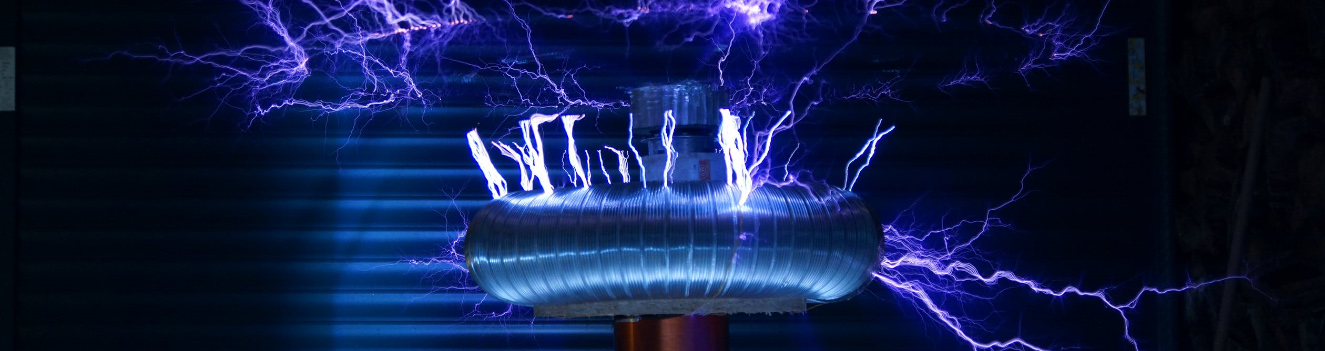
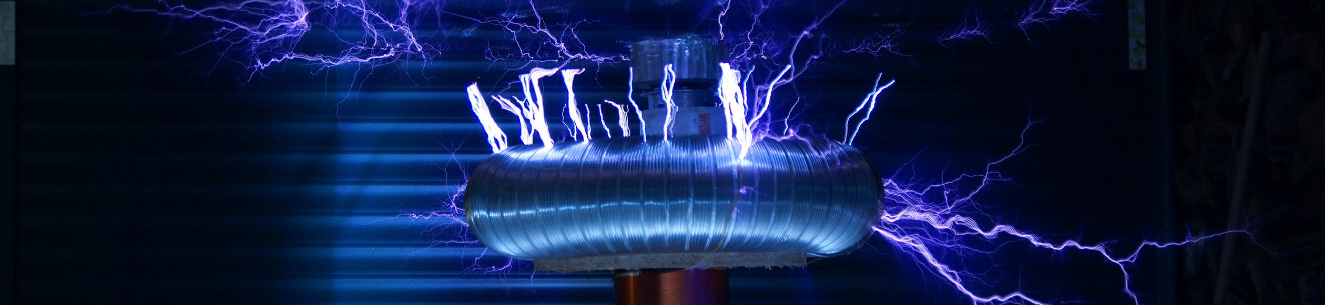
adjusting imagesvisit page

diff --git a/visit.html b/visit.html
@@ -43,10 +43,10 @@
 <body>
     <main>
         <div class="visit-grid-container">
-            <img src="/images/content/tesla.jpg" alt="" class="img-fixed-scale tesla">
-            <img src="/images/content/vr-gear.jpg" alt="" class="img-fixed-scale vr">
-            <img src="/images/content/mixing-chemicals.jpg" alt="" class="img-fixed-scale lab">
-            <img src="/images/content/dancing-robot.jpg" alt="" class="img-fixed-scale robot">
+            <img src="/images/content/tesla.jpg" alt="" class="img-auto-scale tesla">
+            <img src="/images/content/vr-gear.jpg" alt="" class="img-auto-scale vr">
+            <img src="/images/content/mixing-chemicals.jpg" alt="" class="img-fixed2-scale lab">
+            <img src="/images/content/dancing-robot.jpg" alt="" class="img-fixed2-scale robot">
         </div>
     </main>
     <footer>

diff --git a/stylesheets/index.css b/stylesheets/index.css
@@ -253,6 +253,13 @@ body {
     display: grid;
     grid-template-areas: "tesla tesla vr"
                          "lab robot vr";
+    max-height: 900px;
+}
+
+.img-fixed2-scale {
+    height: auto;
+    width: clamp(50px, 100%, 648px);
+    /* height: clamp(100px, 100%, 613px); */
 }
 
 .tesla {
@@ -267,6 +274,11 @@ body {
 .robot {
     grid-area: robot;
 }
+
+@media (max-width: 330px) {
+    .img-fixed2-scale {
+        max-height: 113px;
+    }}
 
 /* Article page */
 .article-h1-img-wrap {
